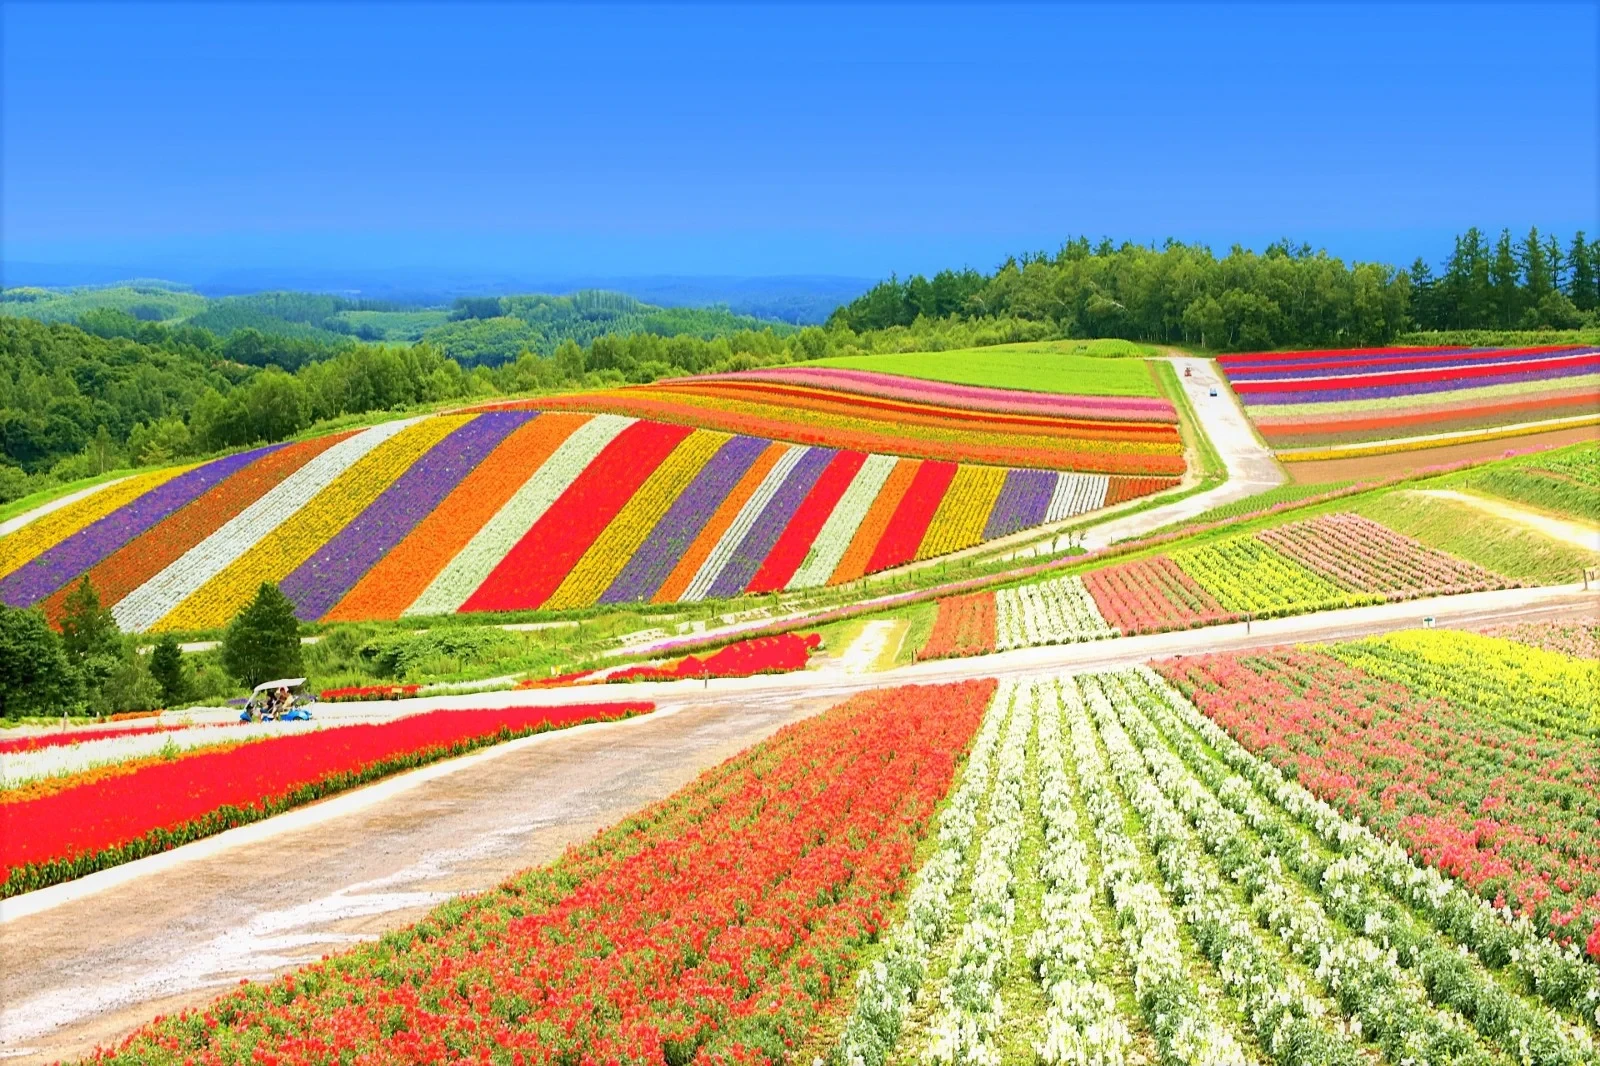
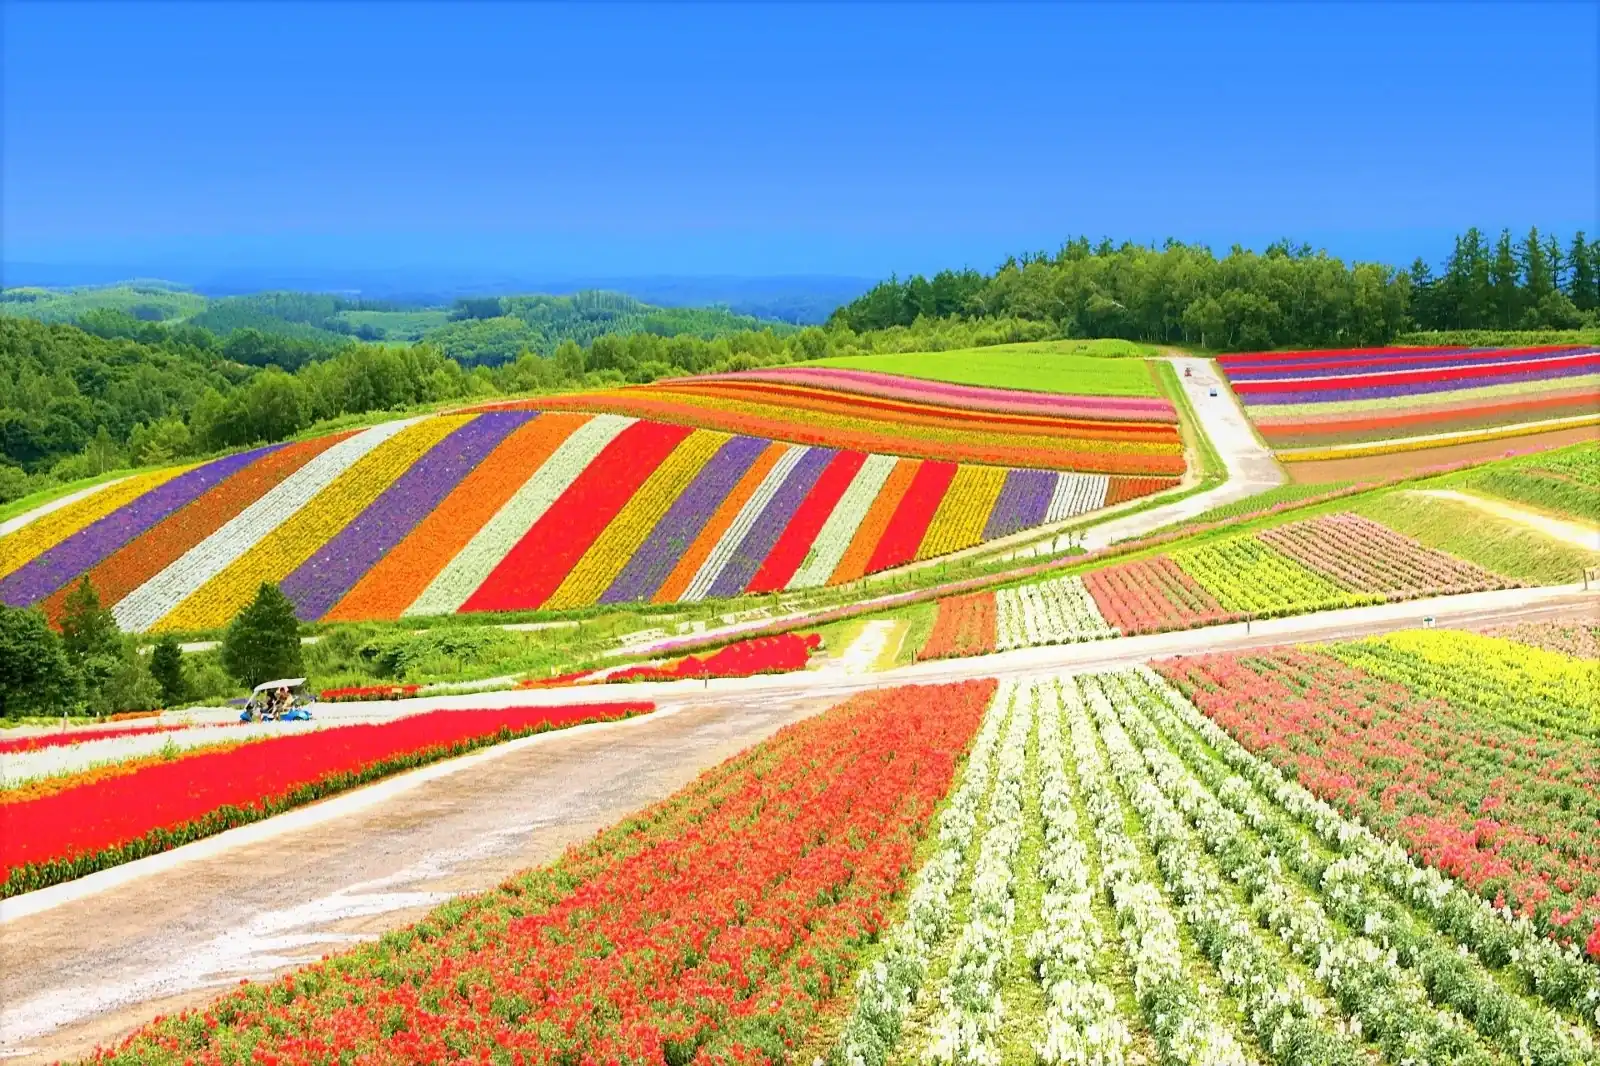
Updates to speed up performance
Major: Compressed background image.
Minor: Removed unused CSS.

diff --git a/index.html b/index.html
@@ -5,7 +5,7 @@
 <head>
     <meta charset="UTF-8">
     <meta name="viewport" content="width=device-width, initial-scale=1.0">
-    <link async rel="stylesheet" href="./styles/styles.css">
+    <link rel="stylesheet" href="./styles/styles.css">
     <link async href="https://cdn.jsdelivr.net/npm/bootstrap@5.3.3/dist/css/bootstrap.min.css" rel="stylesheet" integrity="sha384-QWTKZyjpPEjISv5WaRU9OFeRpok6YctnYmDr5pNlyT2bRjXh0JMhjY6hW+ALEwIH" crossorigin="anonymous">
     <title>Landing Index</title>
     <link rel="icon" href="data:,">
@@ -15,15 +15,14 @@
 <div id="nav-container"></div>
 <main class="layer">
 
-        <br>
         <h1>Välkommen till Fina Blommor!</h1>
-
+        <br>
 </main>
     
 <div id="stickyfoot" class="footer mt-auto py-3 bg-light"></div>
     
-<script async src="https://cdn.jsdelivr.net/npm/bootstrap@5.3.3/dist/js/bootstrap.bundle.min.js" integrity="sha384-YvpcrYf0tY3lHB60NNkmXc5s9fDVZLESaAA55NDzOxhy9GkcIdslK1eN7N6jIeHz" crossorigin="anonymous"></script>
 <script async src="./demo.js"></script>
+<script async src="https://cdn.jsdelivr.net/npm/bootstrap@5.3.3/dist/js/bootstrap.bundle.min.js" integrity="sha384-YvpcrYf0tY3lHB60NNkmXc5s9fDVZLESaAA55NDzOxhy9GkcIdslK1eN7N6jIeHz" crossorigin="anonymous"></script>
 </body>
 
 </html>

diff --git a/about.html b/about.html
@@ -3,15 +3,19 @@
 <head>
     <meta charset="UTF-8">
     <meta name="viewport" content="width=device-width, initial-scale=1.0">
+    <link rel="stylesheet" href="./styles/styles.css">
     <title>About</title>
     <link href="https://cdn.jsdelivr.net/npm/bootstrap@5.3.3/dist/css/bootstrap.min.css" rel="stylesheet" integrity="sha384-QWTKZyjpPEjISv5WaRU9OFeRpok6YctnYmDr5pNlyT2bRjXh0JMhjY6hW+ALEwIH" crossorigin="anonymous">
 </head>
-<body>
+<body class="d-flex flex-column h-100 background">
     <div id="nav-container"></div>
-    
-    <script src="./demo.js"></script>
-    <script src="https://cdn.jsdelivr.net/npm/bootstrap@5.3.3/dist/js/bootstrap.bundle.min.js" integrity="sha384-YvpcrYf0tY3lHB60NNkmXc5s9fDVZLESaAA55NDzOxhy9GkcIdslK1eN7N6jIeHz" crossorigin="anonymous"></script>
 
-    <div id="stickyfoot"></div>
+    
+    <div id="stickyfoot" class="footer mt-auto py-3 bg-light"></div>
+
+
+    <script async src="./demo.js"></script>
+    <script async src="https://cdn.jsdelivr.net/npm/bootstrap@5.3.3/dist/js/bootstrap.bundle.min.js" integrity="sha384-YvpcrYf0tY3lHB60NNkmXc5s9fDVZLESaAA55NDzOxhy9GkcIdslK1eN7N6jIeHz" crossorigin="anonymous"></script>
+
 </body>
 </html>

diff --git a/demo.js b/demo.js
@@ -1,4 +1,6 @@
-const navigation = `
+// document.addEventListener("DOMContentLoaded", () => {
+
+    const navigation = `
 <nav class="navbar navbar-expand-lg navbar-light" style="background-color: #f0ead6;">
   <div class="container-fluid">
     <a class="navbar-brand" href="#">Fina Blommor</a>
@@ -40,3 +42,4 @@ const stickyfoot = `
 
 document.getElementById("nav-container").insertAdjacentHTML('afterbegin', navigation);
 document.getElementById("stickyfoot").insertAdjacentHTML('afterbegin', stickyfoot);
+// })

diff --git a/styles/styles.css b/styles/styles.css
@@ -1,13 +1,6 @@
-.center {
-    align-items: center;
-    justify-content: center;
-    display: flex;
-}
-
 h1 {
-    align-items: center;
-    justify-content: center;
-    display: flex;
+    display: grid;
+    place-items: center;
 }
 
 .background {
